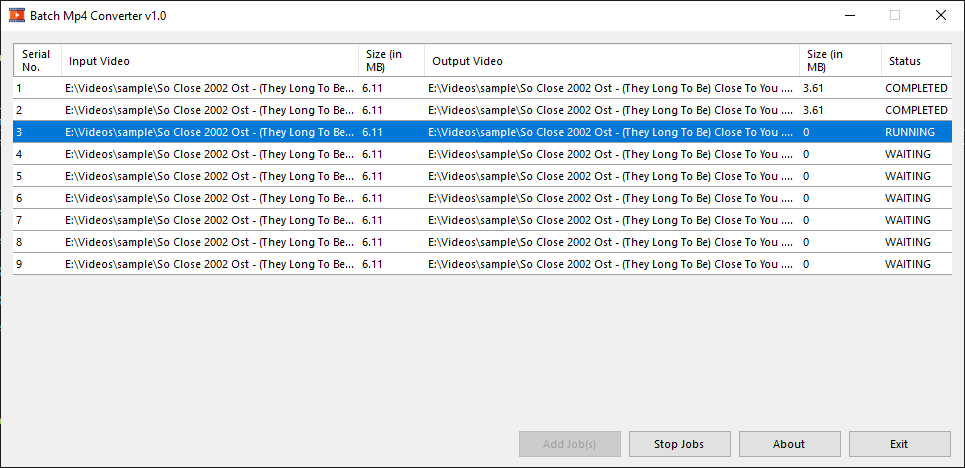
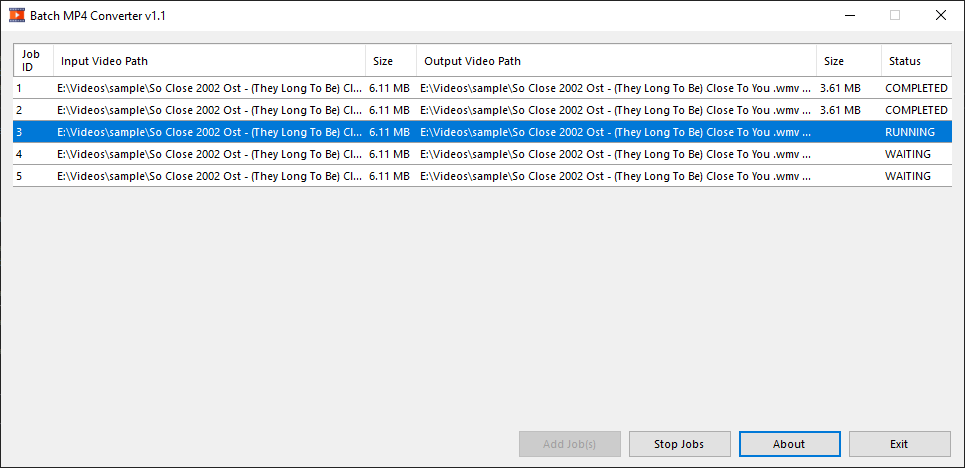
v1.1 - added update notification, opening file location feature

diff --git a/Forms/MainForm.Designer.cs b/Forms/MainForm.Designer.cs
@@ -40,6 +40,8 @@
             this.tsmiDeleteAllJobs = new System.Windows.Forms.ToolStripMenuItem();
             this.timerRefresh = new System.Windows.Forms.Timer(this.components);
             this.btnAbout = new System.Windows.Forms.Button();
+            this.toolStripMenuItem1 = new System.Windows.Forms.ToolStripSeparator();
+            this.tsmiOpenFileLocation = new System.Windows.Forms.ToolStripMenuItem();
             this.pnlPrimary.SuspendLayout();
             ((System.ComponentModel.ISupportInitialize)(this.dgvJobs)).BeginInit();
             this.cmsJobs.SuspendLayout();
@@ -103,21 +105,23 @@
             // 
             this.cmsJobs.Items.AddRange(new System.Windows.Forms.ToolStripItem[] {
             this.tsmiDeleteJob,
-            this.tsmiDeleteAllJobs});
+            this.tsmiDeleteAllJobs,
+            this.toolStripMenuItem1,
+            this.tsmiOpenFileLocation});
             this.cmsJobs.Name = "cmsJobs";
-            this.cmsJobs.Size = new System.Drawing.Size(151, 48);
+            this.cmsJobs.Size = new System.Drawing.Size(181, 98);
             // 
             // tsmiDeleteJob
             // 
             this.tsmiDeleteJob.Name = "tsmiDeleteJob";
-            this.tsmiDeleteJob.Size = new System.Drawing.Size(150, 22);
+            this.tsmiDeleteJob.Size = new System.Drawing.Size(180, 22);
             this.tsmiDeleteJob.Text = "Delete Job";
             this.tsmiDeleteJob.Click += new System.EventHandler(this.ToolStripMenuItemClick);
             // 
             // tsmiDeleteAllJobs
             // 
             this.tsmiDeleteAllJobs.Name = "tsmiDeleteAllJobs";
-            this.tsmiDeleteAllJobs.Size = new System.Drawing.Size(150, 22);
+            this.tsmiDeleteAllJobs.Size = new System.Drawing.Size(180, 22);
             this.tsmiDeleteAllJobs.Text = "Delete All Jobs";
             this.tsmiDeleteAllJobs.Click += new System.EventHandler(this.ToolStripMenuItemClick);
             // 
@@ -135,6 +139,18 @@
             this.btnAbout.Text = "button4";
             this.btnAbout.UseVisualStyleBackColor = true;
             this.btnAbout.Click += new System.EventHandler(this.ButtonClick);
+            // 
+            // toolStripMenuItem1
+            // 
+            this.toolStripMenuItem1.Name = "toolStripMenuItem1";
+            this.toolStripMenuItem1.Size = new System.Drawing.Size(177, 6);
+            // 
+            // tsmiOpenFileLocation
+            // 
+            this.tsmiOpenFileLocation.Name = "tsmiOpenFileLocation";
+            this.tsmiOpenFileLocation.Size = new System.Drawing.Size(180, 22);
+            this.tsmiOpenFileLocation.Text = "Open File Location";
+            this.tsmiOpenFileLocation.Click += new System.EventHandler(this.ToolStripMenuItemClick);
             // 
             // MainForm
             // 
@@ -170,6 +186,8 @@
         private System.Windows.Forms.ToolStripMenuItem tsmiDeleteAllJobs;
         internal System.Windows.Forms.Timer timerRefresh;
         internal System.Windows.Forms.Button btnAbout;
+        private System.Windows.Forms.ToolStripSeparator toolStripMenuItem1;
+        private System.Windows.Forms.ToolStripMenuItem tsmiOpenFileLocation;
     }
 }
 

diff --git a/Utility.cs b/Utility.cs
@@ -1,6 +1,8 @@
 using System;
 using System.Diagnostics;
 using System.IO;
+using System.Net;
+using System.Threading;
 using System.Windows.Forms;
 
 namespace BatchMp4Converter
@@ -31,12 +33,55 @@ namespace BatchMp4Converter
             if (pid > 0)
                 Process.GetProcessById(pid).Kill();
         }
-        internal static decimal GetFileSizeInMb(string filepath)
+        internal static string GetReadableFileSize(string filepath)
         {
-            decimal filesize = 0;
+            double filesize = 0;
+            byte unitIndex = 0;
+            string unit = "Byte";
             if (File.Exists(filepath))
-                filesize = Math.Round((decimal)new FileInfo(filepath).Length / (1024 * 1024), 2);
-            return filesize;
+                filesize = new FileInfo(filepath).Length;
+            
+            while (filesize > 1024)
+            {
+                filesize /= 1024;
+                ++unitIndex;
+            }
+
+            switch (unitIndex)
+            {
+                case 1: unit = "KB"; break;
+                case 2: unit = "MB"; break;
+                case 3: unit = "GB"; break;
+                case 4: unit = "TB"; break;
+            }
+            return string.Format("{0} {1}", Math.Round(filesize, 2), unit);
+        }
+        internal static void CheckForUpdate()
+        {
+            new Thread(delegate ()
+            {
+                try
+                {
+                    string newVersion = string.Empty;
+                    HttpWebRequest updateRequest = (HttpWebRequest)WebRequest.Create(Data.AppUpdateApi);
+                    updateRequest.AutomaticDecompression = DecompressionMethods.GZip;
+
+                    using (HttpWebResponse response = (HttpWebResponse)updateRequest.GetResponse())
+                    {
+                        using (StreamReader reader = new StreamReader(response.GetResponseStream()))
+                        {
+                            newVersion = reader.ReadToEnd();
+                        }
+                    }
+
+                    if (Convert.ToDouble(newVersion) > Convert.ToDouble(Data.AppVersion) && MessageBox.Show(string.Format("A new version of {0} is available for download.\nDo you want to download it now ?", Data.AppName), "Update Available", MessageBoxButtons.YesNo, MessageBoxIcon.Information) == DialogResult.Yes)
+                        Process.Start(Data.AppDownloadUrl);
+                }
+                catch
+                {
+                    // i am okay with this
+                }
+            }).Start();
         }
     }
 }

diff --git a/Forms/MainForm.cs b/Forms/MainForm.cs
@@ -1,5 +1,6 @@
 using System;
 using System.ComponentModel;
+using System.Diagnostics;
 using System.Drawing;
 using System.IO;
 using System.Windows.Forms;
@@ -43,7 +44,7 @@ namespace BatchMp4Converter.Forms
                     Handlers.Form.RefreshJobControl(btnStart);
                     break;
                 case "btnAbout":
-                    MessageBox.Show(string.Format("Q: What is this ?\nA: {0} ver. {1}\n\nQ: Who made it ?\nA: Lakhya Jyoti Nath (ljnath)\n\nQ: How to reach the developer ?\nA: ljnath@ljnath.com / www.ljnath.com", Data.AppName, Data.AppVersion), "About", MessageBoxButtons.OK, MessageBoxIcon.Information);
+                    MessageBox.Show(string.Format("{0} {1}\n\nAuthor: Lakhya Jyoti Nath (ljnath)\nEmail: ljnath@ljnath.com\nWebsite: www.ljnath.com", Data.AppName, Data.AppVersion), "About", MessageBoxButtons.OK, MessageBoxIcon.Information);
                     break;
                 case "btnExit":
                     Application.Exit();
@@ -63,6 +64,9 @@ namespace BatchMp4Converter.Forms
                 case "tsmiDeleteAllJobs":
                     if (MessageBox.Show("Do you really want to delete all jobs ?", Data.AppName, MessageBoxButtons.YesNo, MessageBoxIcon.Question) == DialogResult.Yes)
                         Handlers.Job.Instance.RemoveAll();
+                    break;
+                case "tsmiOpenFileLocation":
+                    Process.Start(Path.GetDirectoryName(Data.SelectedJob.InputVideoFile));
                     break;
             }
             Handlers.Form.RefreshJobList(dgvJobs);
@@ -106,6 +110,7 @@ namespace BatchMp4Converter.Forms
             Handlers.Form.RefreshJobControl(btnStart);
             timerRefresh.Enabled = true;
             timerRefresh.Stop();
+            Utility.CheckForUpdate();
         }
     }
 }

diff --git a/Handlers/Job.cs b/Handlers/Job.cs
@@ -39,12 +39,12 @@ namespace BatchMp4Converter.Handlers
         internal void LoadFromFile()
         {
             Jobs jobs = new Jobs();
-            if (File.Exists(Data.JobsFile))
+            if (File.Exists(Data.JobsDbFile))
             {
                 BinaryFormatter binaryFormatter = new BinaryFormatter();
                 try
                 {
-                    FileStream fileStream = new FileStream(Data.JobsFile, FileMode.Open, FileAccess.Read, FileShare.None);
+                    FileStream fileStream = new FileStream(Data.JobsDbFile, FileMode.Open, FileAccess.Read, FileShare.None);
                     using (fileStream)
                     {
                         jobs = (Jobs)binaryFormatter.Deserialize(fileStream);
@@ -61,7 +61,7 @@ namespace BatchMp4Converter.Handlers
         internal void SaveToFile()
         {
             BinaryFormatter binaryFormatter = new BinaryFormatter();
-            FileStream fileStream = new FileStream(Data.JobsFile, FileMode.Create, FileAccess.Write, FileShare.None);
+            FileStream fileStream = new FileStream(Data.JobsDbFile, FileMode.Create, FileAccess.Write, FileShare.None);
             using (fileStream)
             {
                 binaryFormatter.Serialize(fileStream, Data.Jobs);
@@ -132,7 +132,7 @@ namespace BatchMp4Converter.Handlers
                     {
                         sucessCount++;
                         Data.Jobs.AllJobs[i].Status = JobStatus.COMPLETED;
-                        Data.Jobs.AllJobs[i].OutputFileSize = Utility.GetFileSizeInMb(Data.Jobs.AllJobs[i].OutputVideoFile);
+                        Data.Jobs.AllJobs[i].OutputFileSize = Utility.GetReadableFileSize(Data.Jobs.AllJobs[i].OutputVideoFile);
                     }
                     else
                     {

diff --git a/Handlers/Form.cs b/Handlers/Form.cs
@@ -25,19 +25,18 @@ namespace BatchMp4Converter.Handlers
             mainform.dgvJobs.AllowUserToDeleteRows = false;
             mainform.dgvJobs.AllowUserToResizeRows = false;
             mainform.dgvJobs.AllowUserToOrderColumns = false;
-            mainform.dgvJobs.AllowUserToResizeColumns = false;
 
-            mainform.dgvJobs.Columns.Add("serial", "Serial No.");
-            mainform.dgvJobs.Columns.Add("id", "Job ID");
-            mainform.dgvJobs.Columns.Add("inputVideo", "Input Video");
-            mainform.dgvJobs.Columns.Add("inputSize", "Size (in MB)");
-            mainform.dgvJobs.Columns.Add("ouptutVideo", "Output Video");
-            mainform.dgvJobs.Columns.Add("outputSize", "Size (in MB)");
+            mainform.dgvJobs.Columns.Add("jobId", "Job ID");
+            mainform.dgvJobs.Columns.Add("id", "Internal Job ID");
+            mainform.dgvJobs.Columns.Add("inputVideo", "Input Video Path");
+            mainform.dgvJobs.Columns.Add("inputSize", "Size");
+            mainform.dgvJobs.Columns.Add("ouptutVideo", "Output Video Path");
+            mainform.dgvJobs.Columns.Add("outputSize", "Size");
             mainform.dgvJobs.Columns.Add("status", "Status");
 
-            mainform.dgvJobs.Columns[0].Width = 25;
+            mainform.dgvJobs.Columns[0].Width = 20;
             mainform.dgvJobs.Columns[1].Visible = false;
-            mainform.dgvJobs.Columns[3].Width = mainform.dgvJobs.Columns[5].Width = 40;
+            mainform.dgvJobs.Columns[3].Width = mainform.dgvJobs.Columns[5].Width = 30;
             mainform.dgvJobs.Columns[6].Width = 70;
 
             mainform.btnAdd.Text = "&Add Job(s)";

diff --git a/Data.cs b/Data.cs
@@ -8,9 +8,11 @@ namespace BatchMp4Converter
     internal static class Data
     {
         internal static string AppName { get { return "Batch MP4 Converter"; } }
-        internal static string AppVersion { get { return "1.0"; } }
-        
-        internal static string JobsFile { get { return Path.Combine(Environment.CurrentDirectory, "jobs"); } }
+        internal static string AppVersion { get { return "1.1"; } }
+        internal static string AppDownloadUrl { get { return "https://sourceforge.net/projects/batchmp4converter/files/latest/download";  } }
+        internal static string AppUpdateApi { get { return "https://app.ljnath.com/batchmp4converter"; } }
+
+        internal static string JobsDbFile { get { return Path.Combine(Environment.CurrentDirectory, "jobs"); } }
         internal static Jobs Jobs { get; set; }
         internal static Job SelectedJob { get; set; }
         

diff --git a/Models/Job.cs b/Models/Job.cs
@@ -10,13 +10,13 @@ namespace BatchMp4Converter.Models
             Id = id;
             InputVideoFile = inputVideoFile;
             OutputVideoFile = string.Format("{0}_converted.mp4", inputVideoFile.Substring(0, inputVideoFile.LastIndexOf('.')));
-            InputFileSize = Utility.GetFileSizeInMb(inputVideoFile);
+            InputFileSize = Utility.GetReadableFileSize(inputVideoFile);
         }
         public string Id { get; }
         public string InputVideoFile { get; }
-        public decimal InputFileSize { get; }
+        public string InputFileSize { get; }
         public string OutputVideoFile { get; }
-        public decimal OutputFileSize { get; set; } = 0;
+        public string OutputFileSize { get; set; } = string.Empty;
         public JobStatus Status { get; set; } = JobStatus.WAITING;
         public bool IsWaiting
         {

diff --git a/README.md b/README.md
@@ -1,5 +1,5 @@
 # BatchMp4Converter
-### Version : 1.0
+### Version : 1.1
 
 Author : Lakhya Jyoti Nath (ljnath)<br>
 Date : Sept 2020<br>
@@ -22,6 +22,8 @@ Website : https://www.ljnath.com
 - Supports batch and resume funtinality of conversion
 - 1-click start and stop process
 - Very small output filesize
+- Update notification
+
 
 ## Prerequisite
 - FFmpeg binary needs to be in the same location as the binary file.
